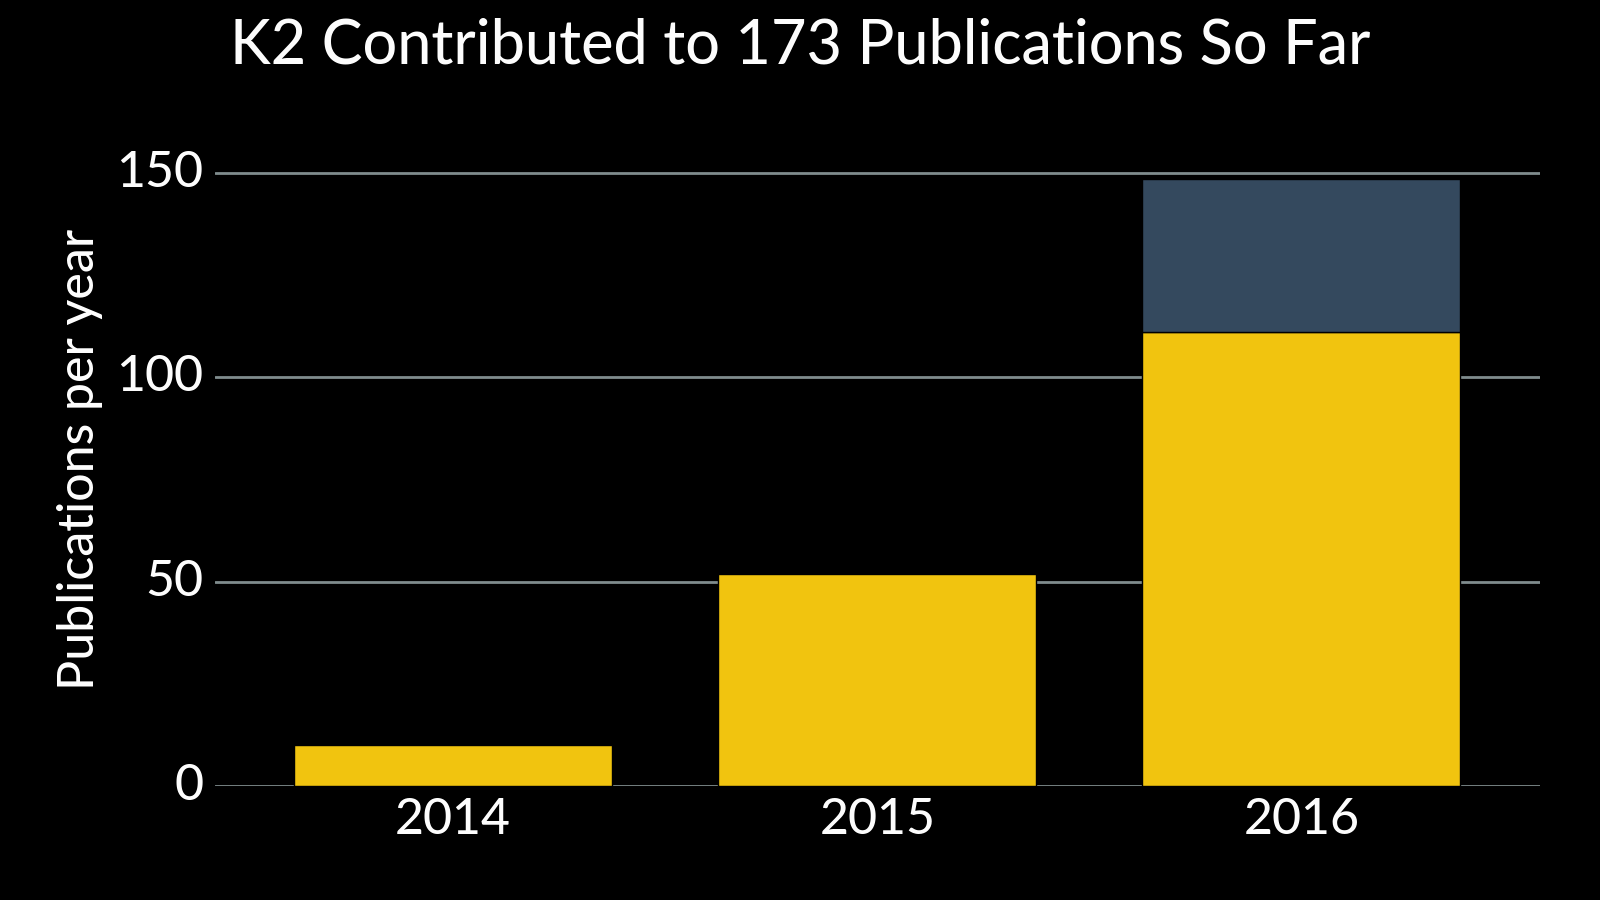
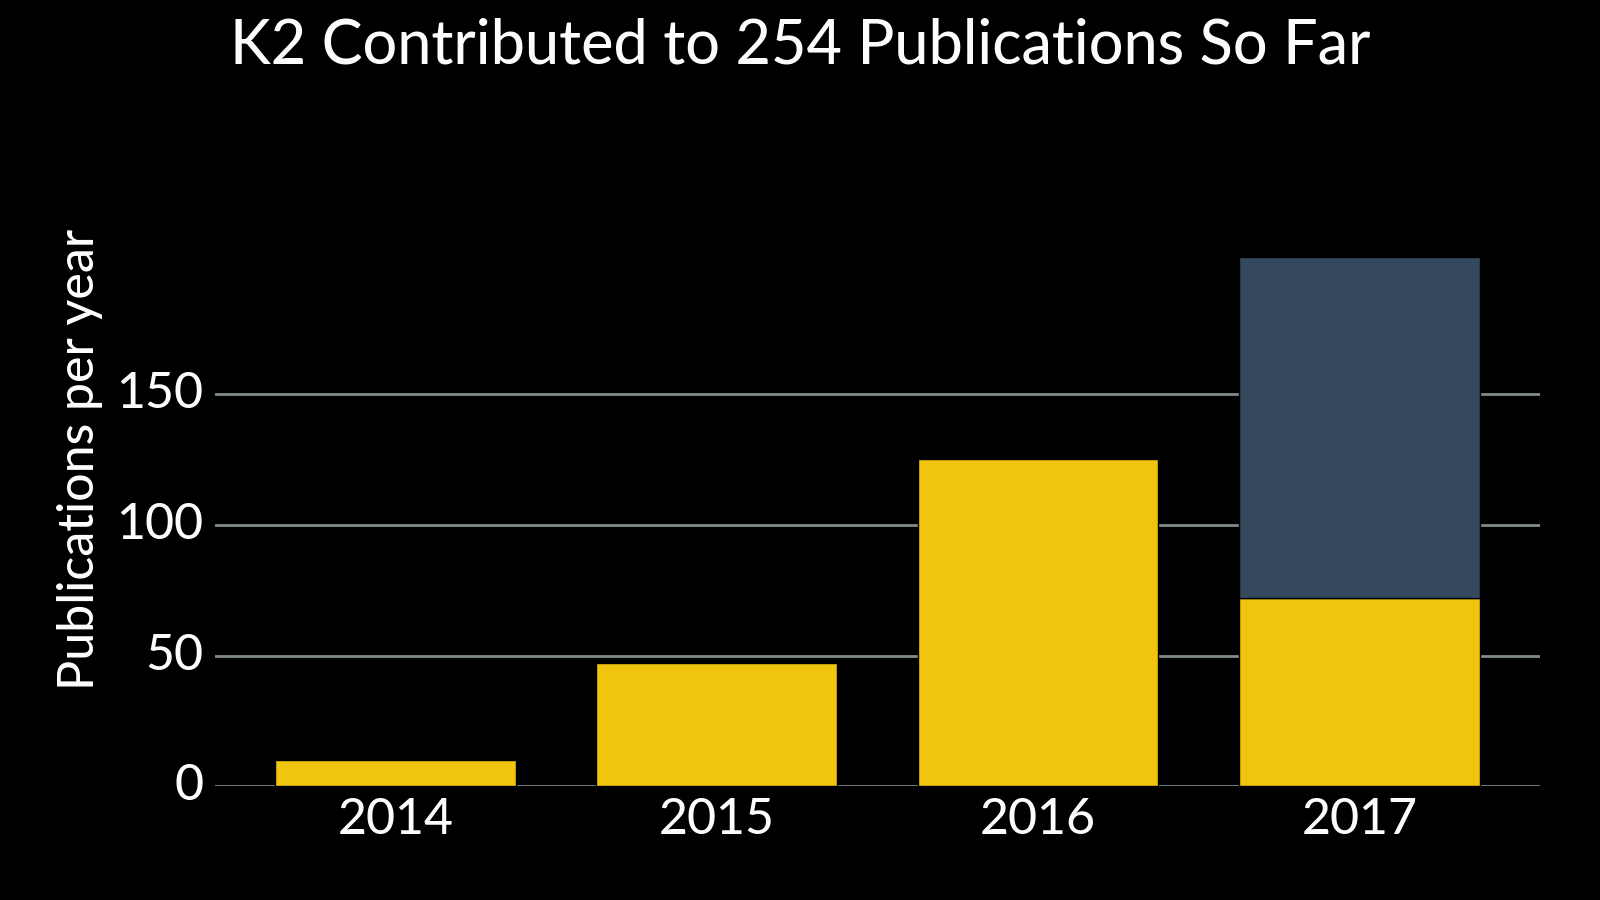
Update annual publication rate plots

diff --git a/publication-stats/publications-per-year-kepler.py b/publication-stats/publications-per-year-kepler.py
@@ -1,0 +1,108 @@
+"""Creates beautiful visualizations of the publication database."""
+import datetime
+import sqlite3 as sql
+
+import numpy as np
+from astropy import log
+
+from matplotlib import pyplot as plt
+import matplotlib.patheffects as path_effects
+import matplotlib as mpl
+from matplotlib import style
+import seaborn as sns
+
+from kpub import PublicationDB
+
+MISSIONS = ['kepler']
+SCIENCES = ['exoplanets', 'astrophysics']
+
+output_fn = 'publications-per-year-kepler.png'
+db = PublicationDB()
+first_year = 2009
+barwidth = 0.75
+extrapolate = True
+current_year = datetime.datetime.now().year
+
+
+palette = sns.color_palette(['#f1c40f', '#2980b9'])
+style.use('../styles/black.mplstyle')
+plt.rc('xtick.major', size=0)
+plt.rc('ytick.major', size=0)
+
+
+# Initialize a dictionary to contain the data to plot
+counts = {}
+for mission in MISSIONS:
+    counts[mission] = {}
+    for year in range(first_year, current_year + 1):
+        counts[mission][year] = 0
+
+    cur = db.con.execute("SELECT year, COUNT(*) FROM pubs "
+                      "WHERE mission = ? "
+                      "AND year >= '2009' "
+                      "GROUP BY year;",
+                      [mission])
+    rows = list(cur.fetchall())
+    for row in rows:
+        counts[mission][int(row[0])] = row[1]
+
+# Now make the actual plot
+fig = plt.figure(figsize=(8, 4.5))
+ax = fig.add_subplot(111)
+plt.bar(np.array(list(counts['kepler'].keys())) - 0.5*barwidth,
+        counts['kepler'].values(),
+        label='Kepler',
+        facecolor=palette[1],
+        edgecolor='black',
+        width=barwidth)
+
+# Also plot the extrapolated precition for the current year
+if extrapolate:
+    now = datetime.datetime.now()
+    fraction_of_year_passed = float(now.strftime("%-j")) / 365.2425
+    current_total = (counts['kepler'][current_year])
+    expected = (1/fraction_of_year_passed - 1) * current_total
+    plt.bar(current_year - 0.5*barwidth,
+            expected,
+            bottom=current_total,
+            label='Extrapolation',
+            facecolor='#34495e',
+            edgecolor='black',
+            width=barwidth)
+
+# Aesthetics
+plt.ylabel("Publications per year", fontsize=18)
+ax.get_xaxis().get_major_formatter().set_useOffset(False)
+plt.xticks(range(first_year - 1, current_year + 1), fontsize=18)
+plt.yticks(range(0, 401, 100), fontsize=18)
+plt.xlim([first_year - 0.75*barwidth, current_year + 0.75*barwidth])
+"""
+plt.legend(bbox_to_anchor=(0.1, 1),
+           loc='upper left',
+           ncol=3,
+           borderaxespad=0.,
+           handlelength=0.8,
+           frameon=False,
+           fontsize=18)
+"""
+# Disable spines
+ax.spines["left"].set_visible(False)
+ax.spines["right"].set_visible(False)
+ax.spines["top"].set_visible(False)
+ax.spines["bottom"].set_visible(False)
+# Only show bottom and left ticks
+ax.get_xaxis().tick_bottom()
+ax.get_yaxis().tick_left()
+# Only show horizontal grid lines
+ax.grid(axis='y')
+
+n_pub = sum(counts['kepler'].values())
+plt.suptitle("Kepler Contributed to "
+             "{} Publications So Far".format(n_pub),
+             fontsize=22)
+
+plt.tight_layout(rect=(0, 0, 1, 0.92), h_pad=1.5)
+log.info("Writing {}".format(output_fn))
+plt.savefig(output_fn)
+plt.close()
+
